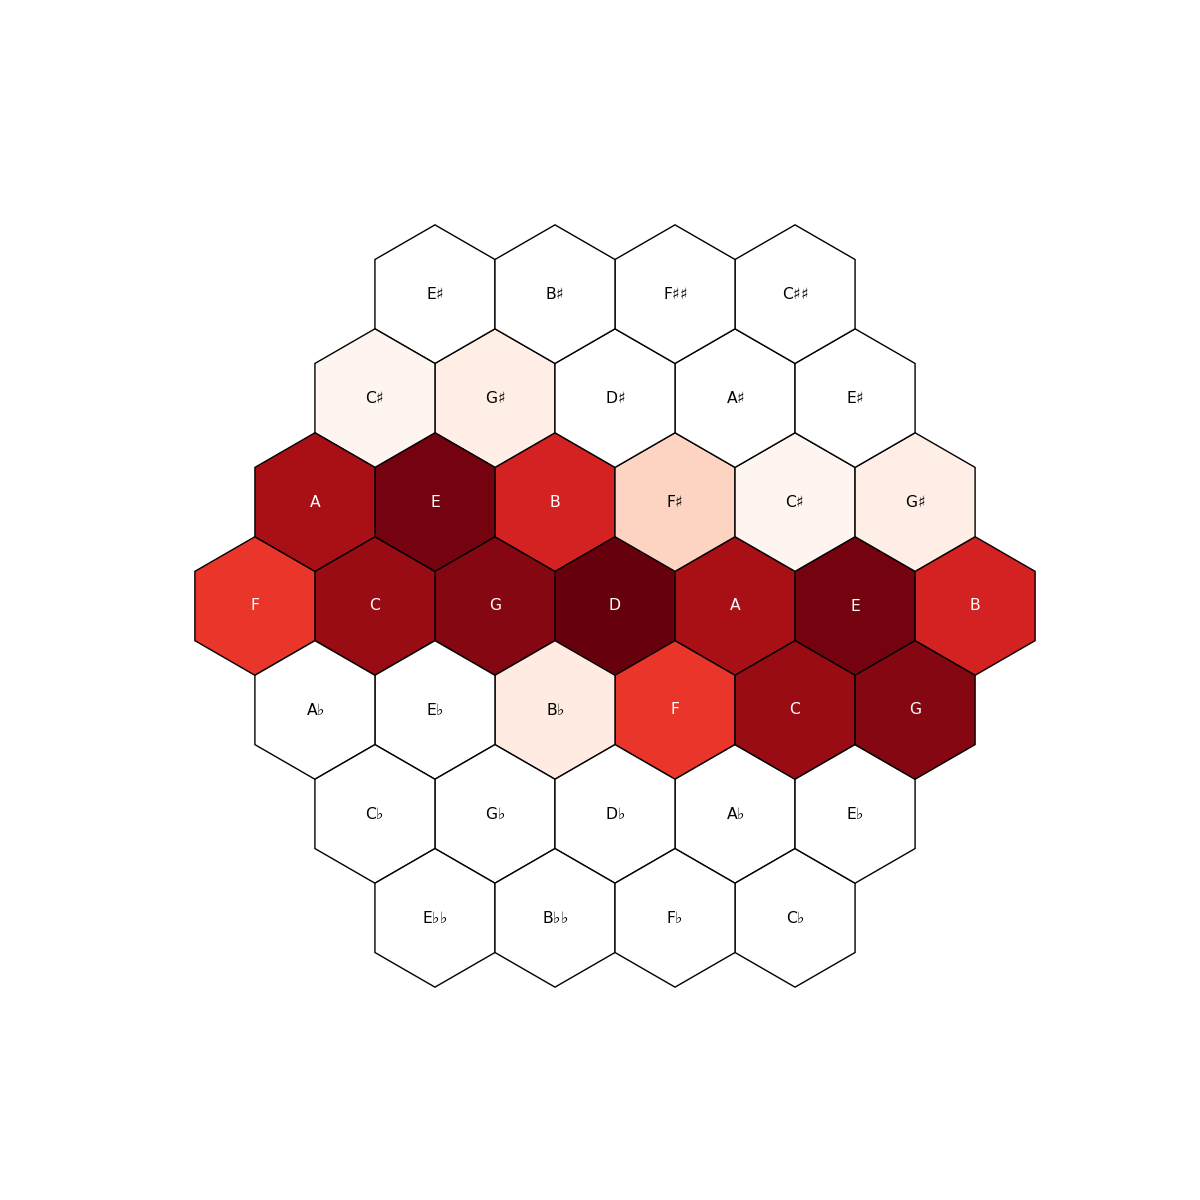
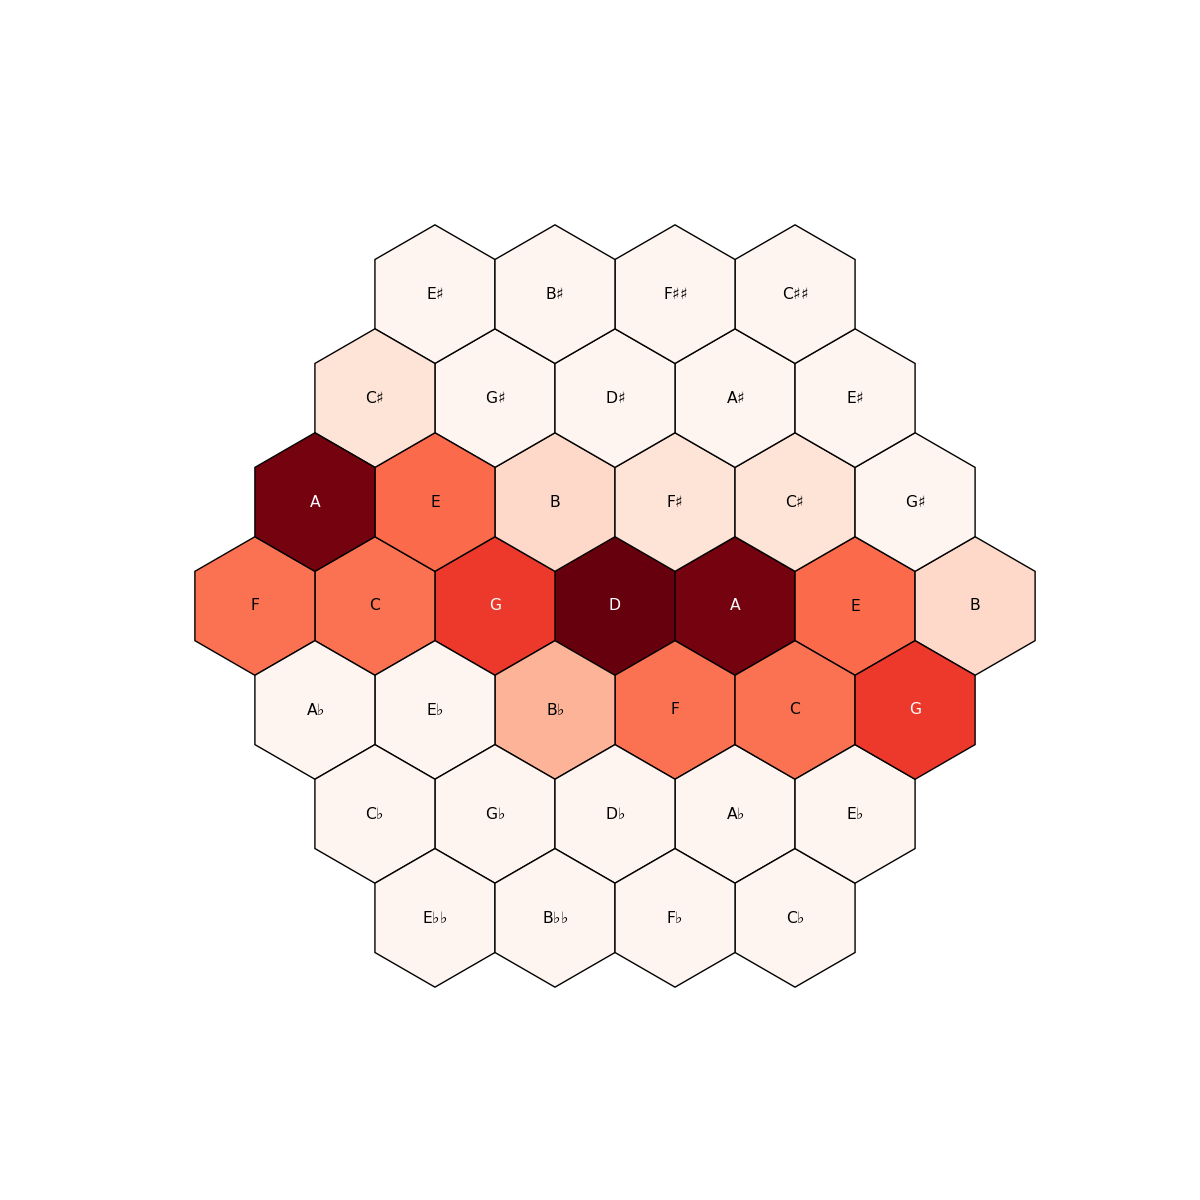
decrease tonnetz size

Changed region(s): [[0.1542, 0.2775, 0.8633, 0.6475]]

diff --git a/tmp.py b/tmp.py
@@ -56,10 +56,10 @@ class Tone:
 
         fig, ax = plt.subplots(1, 1, figsize=(15, 10))
         center_x, center_y = [t.loc for t in tones if t.name == center][0]
-        x_min = center_x - 5
-        x_max = center_x + 5
-        y_min = center_y - 5
-        y_max = center_y + 5
+        x_min = center_x - 3
+        x_max = center_x + 3
+        y_min = center_y - 3
+        y_max = center_y + 3
         for t, w in zip(tones, weights):
             for eq_idx in range(-3, 4):
                 loc = t.get_loc(eq_idx)
@@ -151,8 +151,8 @@ if __name__ == "__main__":
 
     # path = 'data/Satie_-_Gnossiennes_1.csv'
     # path = 'data/BWV_772.csv'
-    # path = 'data/Salve-Regina_Lasso.csv'
-    path = 'data/Schubert_90_2.csv'
+    path = 'data/Salve-Regina_Lasso.csv'
+    # path = 'data/Schubert_90_2.csv'
     # path = 'data/Ravel_-_Miroirs_I.csv'
     # path = 'data/Gesualdo_OVos.csv'
 
@@ -189,15 +189,15 @@ if __name__ == "__main__":
     # plt.show()
 
     # plot actual distribution
-    # fig = tonnetz(
-    #     piece,
-    #     colorbar=False,
-    #     figsize=(12,12),
-    #     cmap='Reds',
-    #     nan_color='white',
-    #     edgecolor='black'
-    # )
-    # fig.savefig('img/piece_dist.png')
+    fig = tonnetz(
+        piece,
+        colorbar=False,
+        figsize=(12,12),
+        cmap='Reds',
+        # nan_color='white',
+        edgecolor='black'
+    )
+    fig.savefig('img/piece_dist.png')
 
     # plot inferred distribution
     Tone.plot(tones, center, weights=best_weights)
